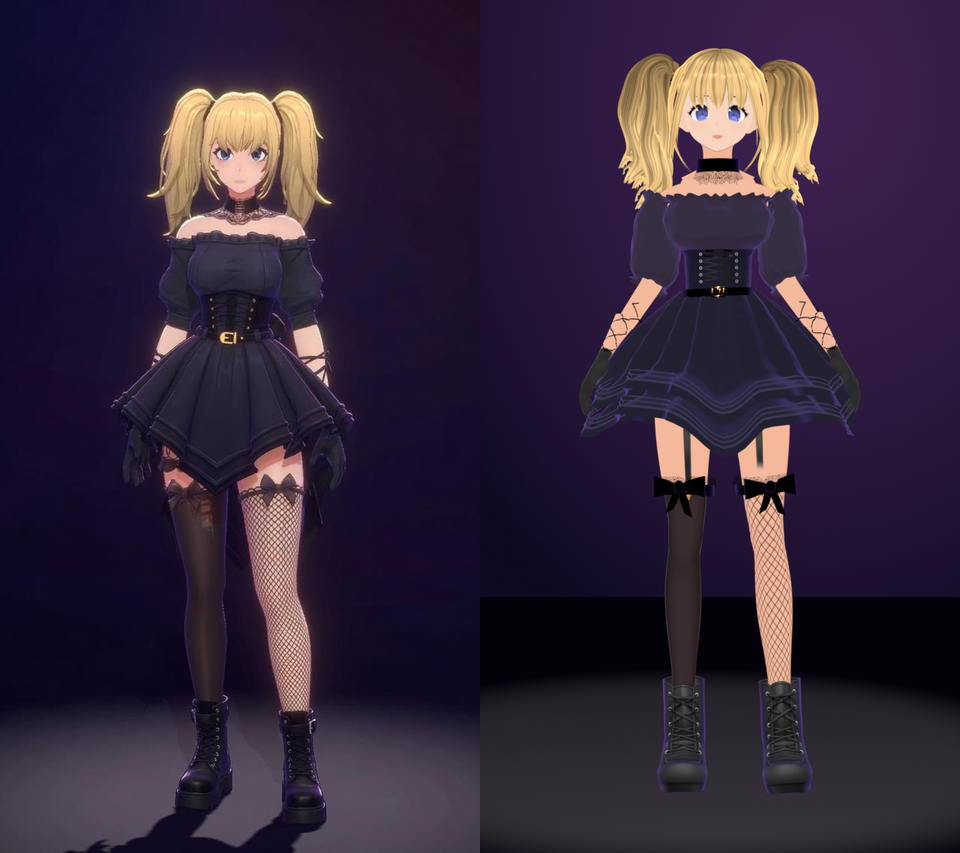
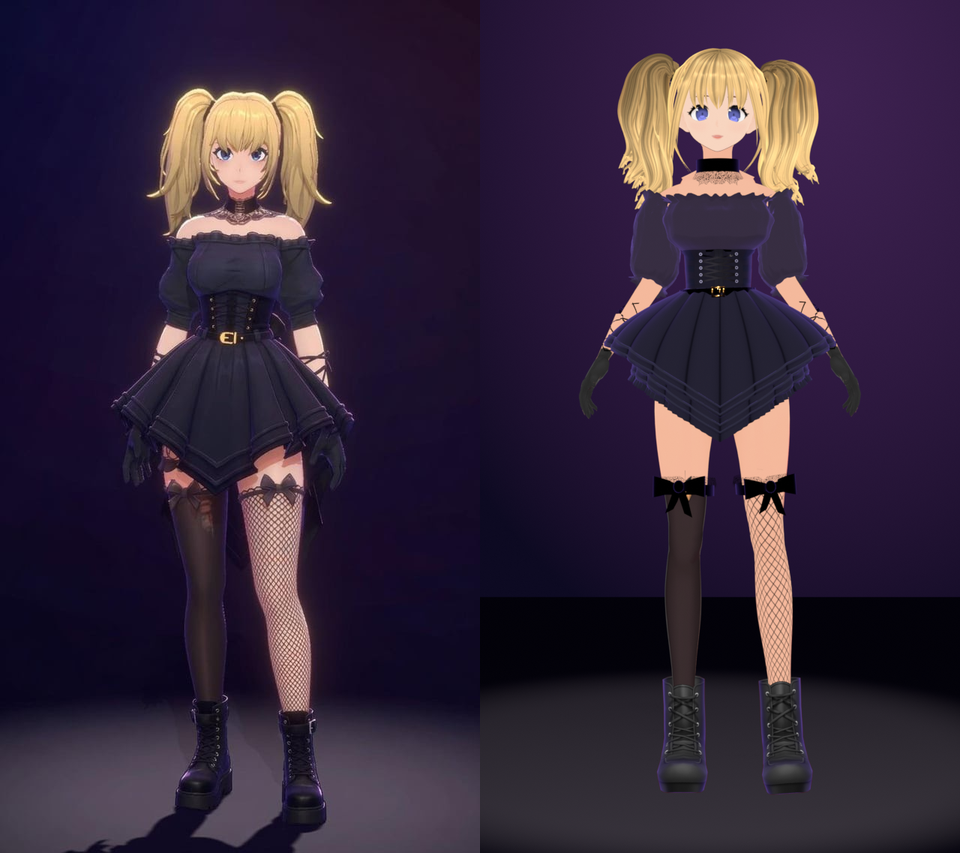
Goth agent: skirt rebuilt as a two-tier panel skirt with a V hem
VRoid's bell skirt could not be bent into the reference's shape, so it is
replaced by one built from scratch: 20 flat panels with crisp folds,
flaring fast below the belt as over a petticoat, in two tiers whose hems
make a V from the front (short at the sides, a deep point front and back).
Measured against the reference with a height ruler: upper tier corners at
40.5% of the figure and ~0.31 of its height wide, points at 48% / 50.5%
(reference 48.5% / 51%). The upper tier stands out to its corners while
the lower tier hangs narrower underneath; the old single cone made the
lower tier stick out past the hands.

Each hem gets a band between two rows of subtle piping and a thick edge,
and a small frill under the lower tier. Toon shading flattened the panels
to one tone from the front, so the creases are also painted into a small
texture (a dark line per fold, a soft falloff across each panel). Weights
come from VRoid's skirt by angle and relative depth. The garter straps
VRoid paints up the thighs are painted out, now that the skirt shows them.

Claude-Session: https://claude.ai/code/session_011M9r3rTGgXhm4baeKDbpr3

Changed region(s): [[0.5938, 0.3353, 0.875, 0.5487], [0.875, 0.4877, 0.9062, 0.5182]]

diff --git a/build/tools/blender-agent-refine.py b/build/tools/blender-agent-refine.py
@@ -4,8 +4,8 @@
   blender -b --python build/tools/blender-agent-refine.py -- --blend IN.blend --out OUT.blend [options]
 
 Runs on the scene blender-agent-avatar.py saves (its agent.blend) and edits only what VRoid Studio
-cannot: the blouse is cut into an off-shoulder top with short puffed sleeves and a frill, the bell
-skirt is re-shaped into two layers of knife pleats with handkerchief points (petticoat dropped), the twin tails are
+cannot: the blouse is cut into an off-shoulder top with short puffed sleeves and a frill, VRoid's
+bell skirt is replaced by a two-tier panel skirt with a V hem (petticoat dropped), the twin tails are
 shortened, flared and waved, the cloth is re-tinted slate navy, hair and irises are hue-shifted, and
 a lace choker, a gold-buckle belt, stocking bands with bows and hair ties are added. Every added
 piece is weighted to a bone and every edited vertex keeps its weights, so the rig, the mouth shapes
@@ -30,10 +30,17 @@ p.add_argument('--sleeve-frill', type=float, default=0.014)  # ruffle on the sle
 p.add_argument('--puff-r', type=float, default=0.016)     # own sleeve: extra radius at the middle of the puff
 p.add_argument('--vroid-sleeves', action='store_true')     # keep and puff VRoid's sleeve instead of building one
 p.add_argument('--underbust', type=float, default=1.2)      # corset above this height becomes a navy bodice (0 = keep)
-p.add_argument('--skirt-len', type=float, default=0.30)     # bottom tier, between the points
-p.add_argument('--skirt-points', type=float, default=0.22)  # handkerchief point depth (fraction)
-p.add_argument('--skirt-hem', type=float, default=0.30)
-p.add_argument('--pleats', type=int, default=16); p.add_argument('--pleat-depth', type=float, default=0.038)
+p.add_argument('--skirt-side', type=float, default=0.195)    # lower tier's length at the sides, from the waistband (m)
+p.add_argument('--skirt-front', type=float, default=0.327)  # ... at its points, centre front and back
+p.add_argument('--skirt-radius', type=float, default=0.26)  # how far the upper tier's hem stands out at the sides (its corners)
+p.add_argument('--skirt-radius-front', type=float, default=0.24)   # ... and at the front and back points
+p.add_argument('--under-radius', type=float, default=0.205) # the lower tier hangs narrower and steeper under it: at the sides
+p.add_argument('--under-radius-front', type=float, default=0.225)  # ... and at the points
+p.add_argument('--skirt-flare', type=float, default=1.6)    # >1: flares out fast below the belt, as over a petticoat
+p.add_argument('--tier-side', type=float, default=0.065)    # the upper tier ends this much above the lower at the sides
+p.add_argument('--tier-front', type=float, default=0.040)   # ... and at the points
+p.add_argument('--pleats', type=int, default=20)            # flat panels with crisp folds
+p.add_argument('--fold', type=float, default=0.045)         # depth of the crease at each fold, as a fraction of the radius at the hem
 p.add_argument('--cloth-toony', type=float, default=0.5)
 p.add_argument('--rim', type=float, default=0.55)          # strength of the built-in rim glow (0 = VRoid's)
 p.add_argument('--hair-lines', type=int, default=130)     # strand lines painted into the hair texture (0 = VRoid's)
@@ -42,9 +49,8 @@ p.add_argument('--hair-shade', type=int, nargs=3, default=(140, 84, 40))   # sRG
 p.add_argument('--fishnet-cell', type=float, default=34); p.add_argument('--fishnet-width', type=float, default=3.2)   # texels at 2048
 p.add_argument('--blouse', type=int, default=1)            # fitted gathered blouse over the upper torso, straight neckline
 p.add_argument('--neckline-drop', type=float, default=0.034)   # neckline below the shoulder joints
-p.add_argument('--piping', type=int, nargs=3, default=(58, 57, 80))   # sRGB piping colour
-p.add_argument('--ruffle', type=float, default=0.022)     # hem frill depth under each skirt layer
-p.add_argument('--skirt-cuts', type=int, default=5); p.add_argument('--skirt-flare', type=float, default=0.8)     # bottom-tier hem radius
+p.add_argument('--piping', type=int, nargs=3, default=(46, 45, 64))   # sRGB piping colour (subtle: brighter read as stripes)
+p.add_argument('--ruffle', type=float, default=0.014)     # frill under the lower tier's hem
 p.add_argument('--tail-len', type=float, default=0.28)      # tie to tip, metres (--tail-tip overrides)
 p.add_argument('--tail-tip', type=float, default=0.0)
 p.add_argument('--tail-root', type=float, default=0.0);   # 0 = measure (top of the tail strands - 4 cm)
@@ -562,44 +568,116 @@ def cuff_out(v):
     return (Vector((s, 0, 0)) * 0.7 + rad * 0.7).normalized()
 frill(neck_e, neck_out, 0.026, 0.5); frill(cuff_e, cuff_out, 0.014, 0.35)
 
-# skirt: two layers of knife pleats with handkerchief points and double piping, flaring from the belt
-sk_faces = [f for f in bm.faces if f.material_index in SKIRT]
-bmesh.ops.subdivide_edges(bm, edges=list({e for f in sk_faces for e in f.edges}), cuts=a.skirt_cuts, use_grid_fill=True)
+# skirt: rebuilt as its own mesh after the reference - flat panels with crisp folds, flaring out below the belt
+# as over a petticoat, in two tiers whose hems make a V from the front: short at the sides, a deep point at the
+# centre front and back. Each hem has a band between two rows of piping; a small frill hangs under the lower one.
 sk_faces = [f for f in bm.faces if f.material_index in SKIRT]
 sk_verts = list({v for f in sk_faces for v in f.verts})
 ztop = max(v.co.z for v in sk_verts); zbot = min(v.co.z for v in sk_verts)
 cy = sum(v.co.y for v in sk_verts if v.co.z > ztop - 0.02) / max(1, len([v for v in sk_verts if v.co.z > ztop - 0.02]))
-def rad(v): return math.hypot(v.co.x, v.co.y - cy)
-bins = [[] for _ in range(21)]
-for v in sk_verts: bins[min(20, int(20 * (ztop - v.co.z) / (ztop - zbot)))].append(rad(v))
-prof = [sum(b) / len(b) if b else None for b in bins]
-for i in range(21):
-    if prof[i] is None: prof[i] = prof[i - 1]
-r0 = prof[0]
-_cr = [math.hypot(v.co.x, v.co.y - cy) for v in {v for f in bm.faces if f.material_index in CORSET for v in f.verts} if abs(v.co.z - (ztop - 0.012)) < 0.012]
-if _cr: r0 = min(r0, sum(_cr) / len(_cr) - 0.002)     # the waistband tucks under the belt, at the corset's width
-def pleat(th, phase):          # knife pleat: slow rise, sharp fold, in [-0.5, 0.5]
-    f = ((a.pleats * th + phase) / (2 * math.pi)) % 1.0     # rounded pleats: a sawtooth shows as teeth on the silhouette
-    return 0.5 * math.sin(2 * math.pi * f) + 0.12 * math.sin(4 * math.pi * f)
-def remap(verts, lenfac, roff, phase=0.0):
-    for v in verts:
-        s = (ztop - v.co.z) / (ztop - zbot); s = min(1, max(0, s))
-        th = math.atan2(v.co.y - cy, v.co.x)
-        L = a.skirt_len * (1 + a.skirt_points * abs(math.sin(3 * th)) ** 5)   # points at centre front and front-sides
-        depth = s * L * lenfac
-        target = r0 + (a.skirt_hem - r0) * min(1.2, depth / a.skirt_len) ** a.skirt_flare + roff * s ** 0.6
-        target += a.pleat_depth * (0.25 + 0.75 * s) * pleat(th, phase)
-        k = target / float(np.interp(s * 20, np.arange(21), prof))   # interpolated: a stepped profile shows as ridges once subdivided
-        v.co.x *= k; v.co.y = cy + (v.co.y - cy) * k; v.co.z = ztop - depth
-tiers = [(sk_verts, 1.0, 0.0)]
-for lenfac, roff in ((0.80, 0.014),):
-    ret = bmesh.ops.duplicate(bm, geom=sk_faces + list({e for f in sk_faces for e in f.edges}) + sk_verts)
-    tiers.append(([g for g in ret['geom'] if isinstance(g, bmesh.types.BMVert)], lenfac, roff))
-hems = []
-for vs, lenfac, roff in tiers:
-    vset = set(vs); spre = {v: (ztop - v.co.z) / (ztop - zbot) for v in vs}
-    hems.append([e for e in bm.edges if e.is_boundary and all(v in vset and spre[v] > 0.85 for v in e.verts)])
-for ti, (vs, lenfac, roff) in enumerate(tiers): remap(vs, lenfac, roff, phase=0.0)   # pleats in step, so the outer layer nests over the inner
+SKW = [(math.atan2(v.co.y - cy, v.co.x), (ztop - v.co.z) / (ztop - zbot), dict(v[dl].items())) for v in sk_verts]
+SKD = KDTree(len(SKW))
+for i_, (t_, s_, _) in enumerate(SKW): SKD.insert((0.5 * math.cos(t_), 0.5 * math.sin(t_), s_), i_)
+SKD.balance()
+def skirt_weights(th, s_):
+    """VRoid's skirt weights at the same angle and relative depth (hips, spine and its skirt bones)."""
+    acc = {}
+    for c_, i_, d_ in SKD.find_n((0.5 * math.cos(th), 0.5 * math.sin(th), s_), 4):
+        w_ = 1.0 / max(d_, 1e-4) ** 2
+        for g_, x_ in SKW[i_][2].items(): acc[g_] = acc.get(g_, 0.0) + w_ * x_
+    tot = sum(acc.values()) or 1.0
+    return {g_: x_ / tot for g_, x_ in acc.items() if x_ / tot > 0.01}
+NW = 72; RW = np.full(NW, np.nan)                     # the waistband tucks under the belt, at the corset's outline
+for q in [v.co for v in {v for f in bm.faces if f.material_index in CORSET for v in f.verts} if ztop - 0.03 < v.co.z < ztop + 0.01]:
+    k_ = int((math.atan2(q.y - cy, q.x) + math.pi) / (2 * math.pi) * NW) % NW; RW[k_] = np.nanmax([RW[k_], math.hypot(q.x, q.y - cy)])
+ok_ = ~np.isnan(RW); RW = np.interp(np.arange(NW), np.arange(NW)[ok_], RW[ok_], period=NW) if ok_.any() else np.full(NW, 0.08)
+def r_waist(th):
+    return float(np.interp((th + math.pi) / (2 * math.pi) * NW - 0.5, np.arange(-1, NW + 1), np.concatenate([[RW[-1]], RW, [RW[0]]]))) - 0.002
+r0 = float(RW.mean()) - 0.002
+bmesh.ops.delete(bm, geom=sk_faces, context='FACES')
+def v_hem(th, side, front): return side + (front - side) * (1 - abs(math.cos(th)))    # a V from the front: points front and back
+def skirt_r(th, drop, D, R, off=0.0):
+    """Radius at angle th, `drop` below the waistband, on a tier D long there that flares out to R at its hem:
+    flat panels between folds."""
+    S = min(1.0, drop / D); rw = r_waist(th)
+    r = rw + (R - rw) * (1 - (1 - S) ** a.skirt_flare) + off * S ** 0.5
+    ph = (th + math.pi) / (2 * math.pi) * a.pleats; loc = (ph - math.floor(ph) - 0.5) * 2 * math.pi / a.pleats
+    edge = (math.pi / a.pleats - abs(loc)) / (math.pi / a.pleats)            # 0 at a fold, 1 mid-panel
+    crease = a.fold * min(1.0, S) ** 0.7 * (1 - math.sin(math.pi / 2 * edge)) ** 1.5   # rounded panels between deep creases
+    return r * math.cos(math.pi / a.pleats) / math.cos(loc) * (1 - crease)
+def texel_uv(mat, target):
+    img = lit_image(mat); W, H = img.size
+    px = np.array(img.pixels[:], dtype=np.float32).reshape(H, W, 4)
+    lum = np.abs(px[..., :3].mean(-1) - target) + (px[..., 3] < 0.9) * 9
+    y, x = np.unravel_index(np.argmin(lum), lum.shape); return ((x + 0.5) / W, (y + 0.5) / H)
+trim = me.materials[min(CORSET)].copy(); trim.name = 'Skirt trim navy'; TRIM_UV = texel_uv(trim, 0.75)
+_ti = lit_image(trim); _tw, _th = _ti.size; _tp = np.array(_ti.pixels[:], dtype=np.float32).reshape(_th, _tw, 4)
+_tc = _tp[int(TRIM_UV[1] * _th), int(TRIM_UV[0] * _tw), :3]; _tc = np.where(_tc <= 0.04045, _tc / 12.92, ((_tc + 0.055) / 1.055) ** 2.4)
+tf = [min(1.0, t / max(1e-4, c)) for t, c in zip(srgb(tuple(a.piping)), _tc)]   # scale against the texel the piping samples
+mtoon(trim).inputs['Lit Color'].default_value = (*tf, 1.0)
+if 'Shade Color' in mtoon(trim).inputs: mtoon(trim).inputs['Shade Color'].default_value = (*[c * 0.5 for c in tf], 1.0)
+SKIRT_MAT = me.materials[min(SKIRT)]; RUF_UV = mid_texel(SKIRT_MAT)
+CPP = 8; NA = a.pleats * CPP                                    # 8 columns per panel, a fold on every 8th
+sb = bmesh.new(); suv = sb.loops.layers.uv.new('UV'); sdl = sb.verts.layers.deform.new()
+def strip(rows, tier, ncols, folds):
+    """Rings at rows [(drop(th), radial lift, material of the face above it: 0 fabric, 1 piping)] on tier (D(th), R(th), off)."""
+    grid = []
+    for (drop_, lift, _) in rows:
+        ring_ = []
+        for j in range(ncols):
+            th = -math.pi + 2 * math.pi * j / ncols; S = drop_(th) / v_hem(th, a.skirt_side, a.skirt_front)
+            r = skirt_r(th, drop_(th), tier[0](th), tier[1](th), tier[2]) + lift
+            v = sb.verts.new((r * math.cos(th), cy + r * math.sin(th), ztop - drop_(th)))
+            for g_, w_ in skirt_weights(th, min(1.0, max(0.0, S))).items(): v[sdl][g_] = w_
+            ring_.append(v)
+        grid.append(ring_)
+    for i in range(len(grid) - 1):
+        for j in range(ncols):
+            k = (j + 1) % ncols; f = sb.faces.new((grid[i][j], grid[i][k], grid[i + 1][k], grid[i + 1][j]))
+            f.material_index = rows[i + 1][2]; f.smooth = True
+            for l in f.loops: l[suv].uv = TRIM_UV if f.material_index == 1 else RUF_UV
+            if folds and j % CPP == 0:
+                e = sb.edges.get((grid[i][j], grid[i + 1][j]))
+                if e: e.smooth = False                          # a crisp fold between panels
+    return grid
+def D_low(th): return v_hem(th, a.skirt_side, a.skirt_front)
+def R_low(th): return v_hem(th, a.under_radius, a.under_radius_front)
+def D_up(th): return D_low(th) - v_hem(th, a.tier_side, a.tier_front)
+def R_up(th): return v_hem(th, a.skirt_radius, a.skirt_radius_front)
+for D, Rt, off in ((D_low, R_low, 0.0), (D_up, R_up, 0.008)):   # lower tier, then the upper one outside it
+    rows = [((lambda th, u=u: (D(th) - 0.025) * u), 0.0, 0) for u in np.linspace(0, 1, 34)]
+    for d0, lift, m_ in ((0.025, 0.0035, 1), (0.021, 0.0035, 1), (0.021, 0.0025, 0), (0.009, 0.0025, 0), (0.009, 0.0035, 1),
+                         (0.005, 0.0035, 1), (0.005, 0.0025, 0), (0.0, 0.0025, 0), (-0.001, -0.002, 0)):   # band, piping, thick hem
+        rows.append(((lambda th, d0=d0: D(th) - d0), lift, m_))
+    strip(rows, (D, Rt, off), NA, True)
+if a.ruffle:   # a small gathered frill under the lower tier, finely sampled (gathers alias into teeth otherwise)
+    g_ = strip([((lambda th: D_low(th) - 0.004), -0.002, 0), ((lambda th: D_low(th) + a.ruffle), 0.006, 0)], (D_low, R_low, 0.0), 400, False)
+    for j, v in enumerate(g_[1]):
+        th = -math.pi + 2 * math.pi * j / 400; w_ = 0.004 * math.sin(100 * th); v.co.x += w_ * math.cos(th); v.co.y += w_ * math.sin(th)
+for f in sb.faces:
+    f.normal_update(); c_ = f.calc_center_median()
+    if f.normal.dot(Vector((c_.x, c_.y - cy, 0))) < 0: f.normal_flip()
+    if f.material_index == 0:   # panel UVs: u across the panel fold to fold, v down the skirt, for the painted creases below
+        pc_ = (math.atan2(c_.y - cy, c_.x) + math.pi) / (2 * math.pi) * a.pleats; k_ = math.floor(pc_)
+        for l in f.loops:
+            ph_ = (math.atan2(l.vert.co.y - cy, l.vert.co.x) + math.pi) / (2 * math.pi) * a.pleats
+            l[suv].uv = ((ph_ - k_ + a.pleats / 2) % a.pleats - a.pleats / 2, min(1.0, max(0.0, (l.vert.co.z - (ztop - a.skirt_front)) / a.skirt_front)))
+# MToon's toon shading flattens the panels to one tone from the front, so the creases are painted in as well:
+# a dark line at each fold and a soft falloff across the panel, around the flat skirt colour
+PW, PH = 256, 32; U_ = (np.arange(PW) + 0.5) / PW
+d_ = np.minimum(U_, 1 - U_); shade_ = (1 - 0.42 * np.exp(-(d_ / 0.035) ** 2)) * (1 - 0.14 * (1 - np.sin(np.pi * U_)) ** 2)
+flat_ = np.array(lit_image(SKIRT_MAT).pixels[:], dtype=np.float32).reshape(-1, 4); flat_ = flat_[flat_[:, 3] > 0.5][:, :3].mean(0)
+pimg = bpy.data.images.new('Skirt panels', PW, PH, alpha=True); pp_ = np.ones((PH, PW, 4), np.float32)
+pp_[..., :3] = flat_[None, None, :] * (shade_ / shade_.mean())[None, :, None]; pimg.pixels[:] = np.clip(pp_, 0, 1).ravel(); pimg.pack()
+panel_mat = SKIRT_MAT.copy(); panel_mat.name = SKIRT_MAT.name.split(' (')[0] + ' panels'   # keeps the cloth key: soft shading, rim
+old_ = lit_image(SKIRT_MAT)
+for n_ in panel_mat.node_tree.nodes:
+    if n_.type == 'TEX_IMAGE' and n_.image == old_: n_.image = pimg
+sme = bpy.data.meshes.new('Skirt'); sb.to_mesh(sme); sb.free()
+sob = bpy.data.objects.new('Skirt', sme); coll.objects.link(sob); sme.materials.append(panel_mat); sme.materials.append(trim)
+sob.parent = arm; sob.modifiers.new('Armature', 'ARMATURE').object = arm
+print('SKIRT rebuilt: %d panels; lower tier %.3f long at the sides / %.3f at the points, upper out to %.3f / %.3f; %d verts'
+      % (a.pleats, a.skirt_side, a.skirt_front, a.skirt_radius, a.skirt_radius_front, len(sme.vertices)))
 # plain fabric: a flattened copy of the skirt texture (drops the buttons and panel seams)
 skm = me.materials[min(SKIRT)]; simg = lit_image(skm); fimg = simg.copy(); fimg.name = 'Skirt flat'
 fpx = np.array(fimg.pixels[:], dtype=np.float32).reshape(-1, 4); h_, s_, v_ = rgb_to_hsv(fpx[:, :3]); op = fpx[:, 3] > 0.5
@@ -612,66 +690,12 @@ def relink(key, old, new):
             for n_ in m_.node_tree.nodes:
                 if n_.type == 'TEX_IMAGE' and n_.image == old: n_.image = new
 relink('N00_002_03_Tops_01_CLOTH_01', simg, fimg)
-def texel_uv(mat, target):
-    img = lit_image(mat); W, H = img.size
-    px = np.array(img.pixels[:], dtype=np.float32).reshape(H, W, 4)
-    lum = np.abs(px[..., :3].mean(-1) - target) + (px[..., 3] < 0.9) * 9
-    y, x = np.unravel_index(np.argmin(lum), lum.shape); return ((x + 0.5) / W, (y + 0.5) / H)
-TRIM_UV = texel_uv(me.materials[min(CORSET)], 0.75)
-trim = me.materials[min(CORSET)].copy(); trim.name = 'Skirt trim navy'
-_ti = lit_image(trim); _tw, _th = _ti.size; _tp = np.array(_ti.pixels[:], dtype=np.float32).reshape(_th, _tw, 4)
-_tc = _tp[int(TRIM_UV[1] * _th), int(TRIM_UV[0] * _tw), :3]; _tc = np.where(_tc <= 0.04045, _tc / 12.92, ((_tc + 0.055) / 1.055) ** 2.4)
-tf = [min(1.0, t / max(1e-4, c)) for t, c in zip(srgb(tuple(a.piping)), _tc)]   # scale against the texel the piping samples
-mtoon(trim).inputs['Lit Color'].default_value = (*tf, 1.0)
-if 'Shade Color' in mtoon(trim).inputs: mtoon(trim).inputs['Shade Color'].default_value = (*[c * 0.5 for c in tf], 1.0)
-me.materials.append(trim); CORSET_I = len(me.materials) - 1; nt = 0
-SLOPE = (a.skirt_hem - r0) / a.skirt_len * 0.6
-def band(edges, up, width):
-    """A piping strip on the skirt surface, `up` metres above the hem, `width` tall."""
-    global nt
-    geom = list({v for e in edges for v in e.verts}) + edges
-    ret = bmesh.ops.duplicate(bm, geom=geom); dup = [g for g in ret['geom'] if isinstance(g, bmesh.types.BMEdge)]
-    for g in ret['geom']:
-        if isinstance(g, bmesh.types.BMVert):
-            r = math.hypot(g.co.x, g.co.y - cy); k = (r - up * SLOPE + 0.0025) / max(r, 1e-4)
-            g.co.x *= k; g.co.y = cy + (g.co.y - cy) * k; g.co.z += up
-    ret = bmesh.ops.extrude_edge_only(bm, edges=dup)
-    for g in ret['geom']:
-        if isinstance(g, bmesh.types.BMVert):
-            r = math.hypot(g.co.x, g.co.y - cy); k = (r - width * SLOPE) / max(r, 1e-4)
-            g.co.x *= k; g.co.y = cy + (g.co.y - cy) * k; g.co.z += width
-        elif isinstance(g, bmesh.types.BMFace):
-            g.material_index = CORSET_I; g.smooth = True; nt += 1
-            for l in g.loops: l[uvl].uv = TRIM_UV
-RUF_UV = mid_texel(me.materials[min(SKIRT)])
-def ruffle(edges, drop, gathers):
-    """A gathered frill hanging below a hem: duplicated hem edge, extruded down and out, rippled."""
-    global nt
-    geom = list({v for e in edges for v in e.verts}) + edges
-    ret = bmesh.ops.duplicate(bm, geom=geom); dup = [g for g in ret['geom'] if isinstance(g, bmesh.types.BMEdge)]
-    for g in ret['geom']:
-        if isinstance(g, bmesh.types.BMVert):   # tuck the frill's top just inside the hem
-            r = math.hypot(g.co.x, g.co.y - cy); k = (r - 0.002) / max(r, 1e-4); g.co.x *= k; g.co.y = cy + (g.co.y - cy) * k; g.co.z += 0.004
-    ret = bmesh.ops.extrude_edge_only(bm, edges=dup)
-    for g in ret['geom']:
-        if isinstance(g, bmesh.types.BMVert):
-            th = math.atan2(g.co.y - cy, g.co.x); r = math.hypot(g.co.x, g.co.y - cy)
-            k = (r + drop * 0.55 + 0.007 * math.sin(gathers * th)) / max(r, 1e-4)
-            g.co.x *= k; g.co.y = cy + (g.co.y - cy) * k; g.co.z -= drop
-        elif isinstance(g, bmesh.types.BMFace):
-            g.material_index = min(SKIRT); g.smooth = True; nt += 1
-            for l in g.loops: l[uvl].uv = RUF_UV
-for edges in hems:
-    if not edges: continue
-    ruffle(edges, a.ruffle, 90)
-    band(edges, 0.0, 0.005); band(edges, 0.012, 0.003); band(edges, 0.022, 0.003)
-print('TRIM faces', nt)
 # plain corset: VRoid painted side straps with buckles into it, which read as stripes from the front
 cm_ = me.materials[min(CORSET)]; cimg = lit_image(cm_); fimg = cimg.copy(); fimg.name = 'Corset flat'
 fpx = np.array(fimg.pixels[:], dtype=np.float32).reshape(-1, 4); h_, s_, v_ = rgb_to_hsv(fpx[:, :3]); op = fpx[:, 3] > 0.5
 v_ = v_ * 0.2 + 0.8 * v_[op].mean(); fpx[:, :3] = hsv_to_rgb(h_, s_ * 0.5, v_); fimg.pixels[:] = fpx.ravel(); fimg.pack()
 relink('N00_002_03_Tops_01_CLOTH_02', cimg, fimg)
-print('SKIRT top %.3f bot %.3f r0 %.3f cy %.3f' % (ztop, zbot, r0, cy))
+print('SKIRT top %.3f r0 %.3f cy %.3f' % (ztop, r0, cy))
 bm.to_mesh(me); me.update()
 
 # soft blouse: a fitted tube over the upper torso from under the corset's top edge to a straight
@@ -919,11 +943,11 @@ hb.to_mesh(hair.data); hair.data.update(); print('STRAYS removed', len(strays));
 hb.free()
 
 # sheer stocking: the reference's dark thigh-high is brown-black with skin showing through
-def leg_mask(side, top_z):
+def leg_mask(side, top_z, bottom_z=0.18):
     img = lit_image(me.materials[min(mats('Body_00_SKIN'))]); W, H = img.size
     m_ = np.zeros((H, W), dtype=bool); uvd = me.uv_layers.active.data; n = 0; SK = mats('Body_00_SKIN')
     for poly in me.polygons:
-        if poly.material_index in SK and side * poly.center.x > 0.01 and 0.18 < poly.center.z < top_z + 0.01:
+        if poly.material_index in SK and side * poly.center.x > 0.01 and bottom_z < poly.center.z < top_z + 0.01:
             pts = [(uvd[li].uv.x * W, uvd[li].uv.y * H) for li in poly.loop_indices]; n += 1
             for k in range(1, len(pts) - 1):                   # fan-triangulate, fill by barycentric test
                 (x0, y0), (x1, y1), (x2, y2) = pts[0], pts[k], pts[k + 1]
@@ -1033,6 +1057,18 @@ def stocking_top():
 zs = stocking_top(); print('STOCKING TOP %.3f' % zs)
 sheer_stocking(-1, zs)
 if a.fishnet_cell: fine_fishnet(1, zs, a.fishnet_cell, a.fishnet_width)
+def erase_garters(side, z0, z1):
+    """VRoid paints garter straps up the thighs into the skin texture; the reference's thighs are bare between
+    the stocking tops and the (now shorter) skirt. Dark texels there become the surrounding skin colour."""
+    img, m_, n = leg_mask(side, z1, z0); W, H = img.size
+    px = np.array(img.pixels[:], dtype=np.float32).reshape(H, W, 4); lum = px[..., :3].mean(-1)
+    light = m_ & (lum >= 0.6)
+    if not light.any(): print('GARTERS none on side', side); return
+    skin_ = np.median(px[light][:, :3], axis=0); dark = m_ & (lum < skin_.mean() - 0.10)
+    for _ in range(2): dark = m_ & (dark | np.roll(dark, 1, 0) | np.roll(dark, -1, 0) | np.roll(dark, 1, 1) | np.roll(dark, -1, 1))   # and their soft edges
+    px[dark, :3] = skin_; img.pixels[:] = px.ravel(); img.pack()
+    print('GARTERS erased on side %+d: %d texels between %.3f and %.3f' % (side, int(dark.sum()), z0, z1))
+for side in (1, -1): erase_garters(side, zs + 0.03, 0.90 + DZ * 0.5)
 def bow(bm, at, normal, s=1.0):
     """Satin bow facing `normal`, centred at `at`."""
     zax = Vector((0, 0, 1)); xax = zax.cross(normal).normalized(); yax = normal.normalized()

diff --git a/design/blender/agent/README.md b/design/blender/agent/README.md
@@ -151,11 +151,21 @@ reference picture:
   flat top panel, cut clean at the underbust line. The black corset then
   reads as an underbust piece over the blouse, with a narrow binding on
   its top edge.
-- **Skirt**: the bell skirt is subdivided and becomes two layers of 16
-  rounded pleats flaring from the belt (a knife-pleat sawtooth shows as
-  teeth on the silhouette; layers in step so the outer nests), with six handkerchief points, a gathered
-  frill under each hem and three rows of navy piping; its buttons and panel seams are flattened out of the
-  texture and the white petticoat is dropped.
+- **Skirt**: VRoid's bell skirt is replaced by one built from scratch after
+  the reference: 20 flat panels with crisp folds, flaring out fast below
+  the belt as over a petticoat, in two tiers whose hems make a V from the
+  front - short at the sides, a deep point at the centre front and back.
+  The upper tier stands out to wide corners at the sides (40% down the
+  figure, like the reference) while the lower tier hangs narrower and
+  steeper under it and shows below. Each hem has a band between two rows
+  of subtle piping and a thick edge; a small gathered frill hangs under
+  the lower one. Toon shading flattens the panels to one tone from the
+  front, so the creases are also painted into a small texture of their
+  own (a dark line at each fold, a soft falloff across each panel). Bone
+  weights are copied from VRoid's skirt by angle and relative depth
+  (hips, spine and its skirt bones). With the shorter skirt, the garter
+  straps VRoid paints up the thighs are painted out: the reference's
+  thighs are bare between the stocking tops and the skirt.
 - **Corset and belt**: VRoid's corset flares out at the bottom (over the
   skirt's waistband) and at the top (where its bust cups start); it is
   now a straight tube 8% wider at the top than at the belt, with the skin
